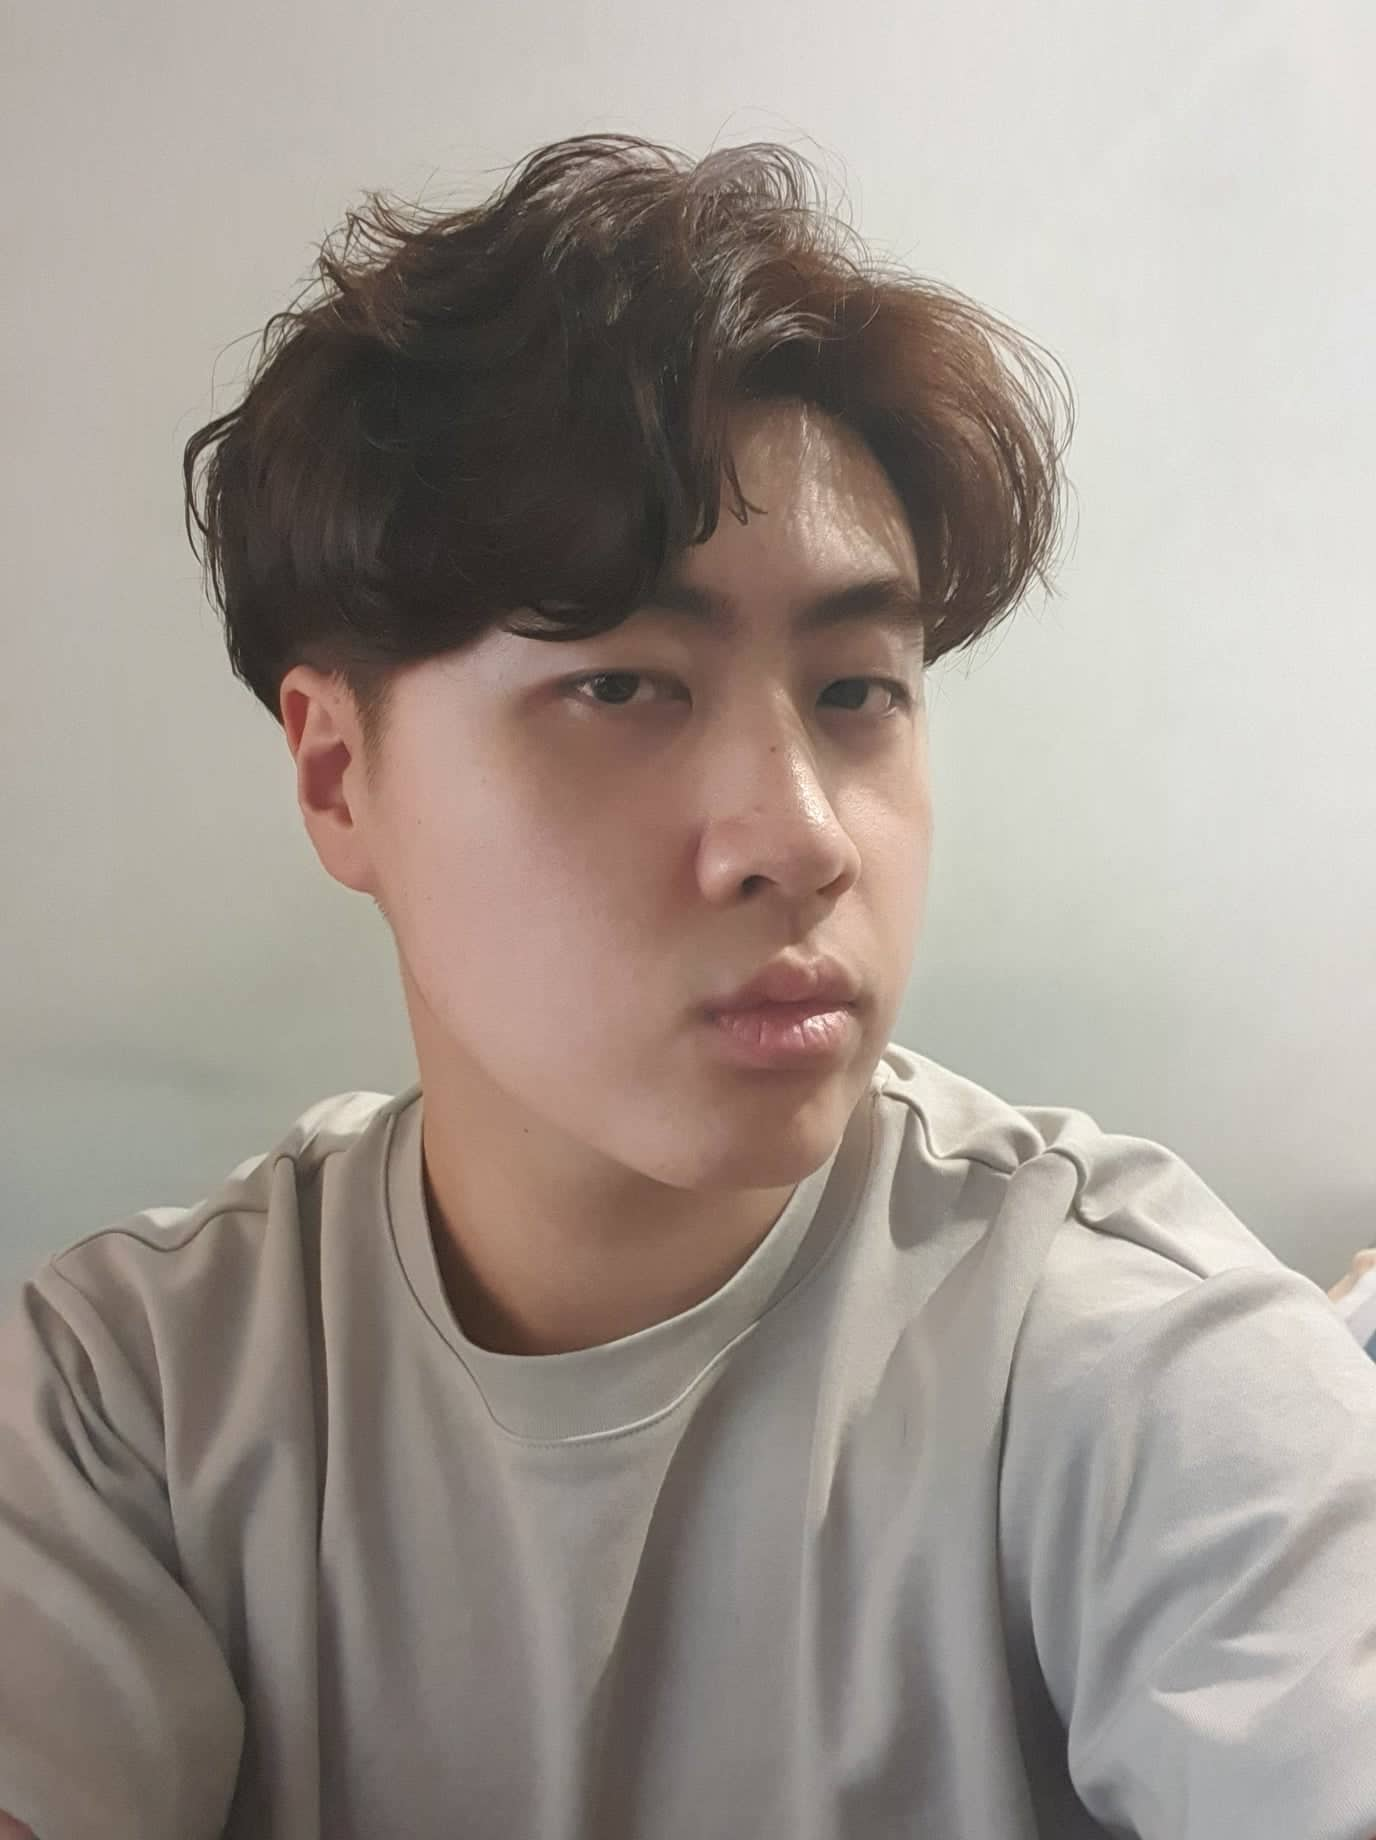
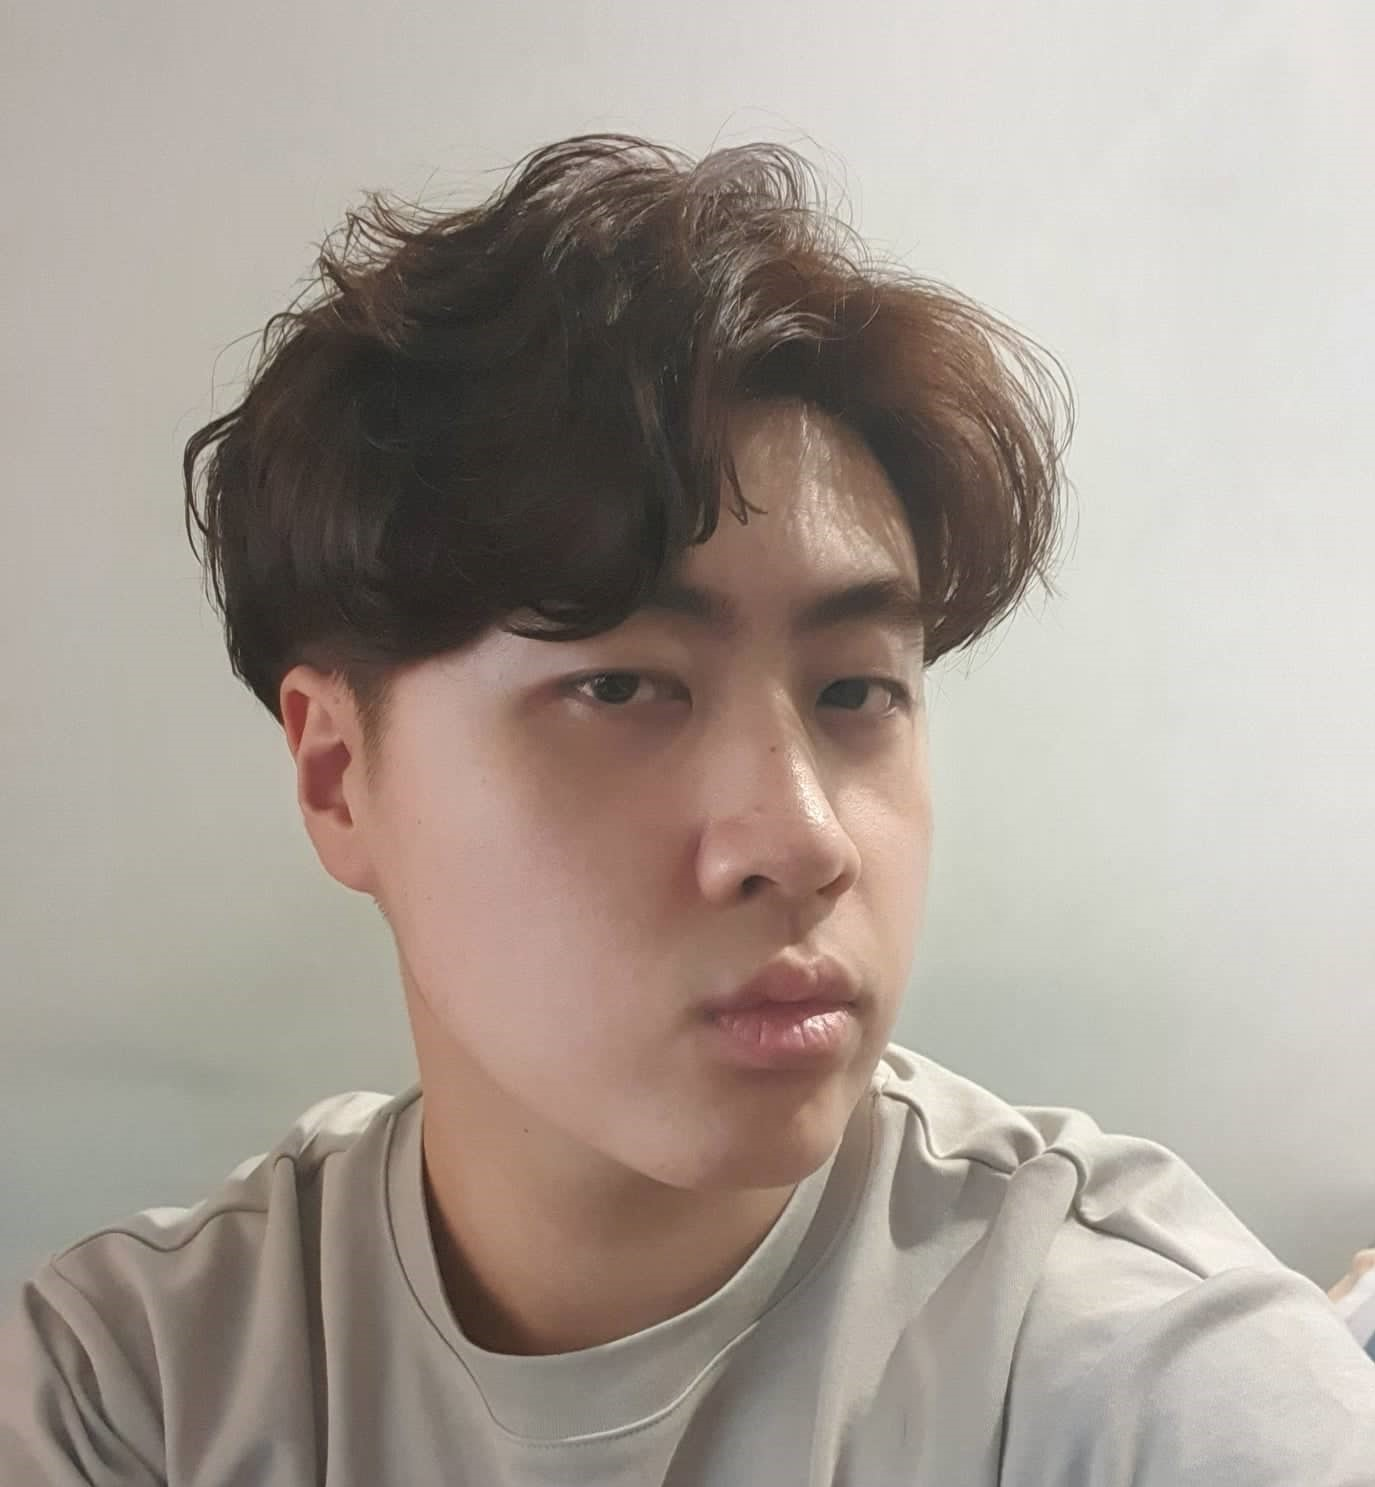
updated profile photo size

diff --git a/Styles/main.css b/Styles/main.css
@@ -50,8 +50,11 @@ section {
 .profile-img {
   max-width: 100%;
   max-height: 300px;
+  border-radius: 50%;
   -webkit-clip-path: circle();
           clip-path: circle();
+  -webkit-box-shadow: 0 0 50px whitesmoke;
+          box-shadow: 0 0 50px whitesmoke;
 }
 
 .container {

diff --git a/Styles/stylings.scss b/Styles/stylings.scss
@@ -57,7 +57,7 @@ section {
 //profile photo
 .profile-img {
     max-width:100%;
-    max-height: 300px;
+    max-height: 300px;;
     clip-path: circle();
 }
 
